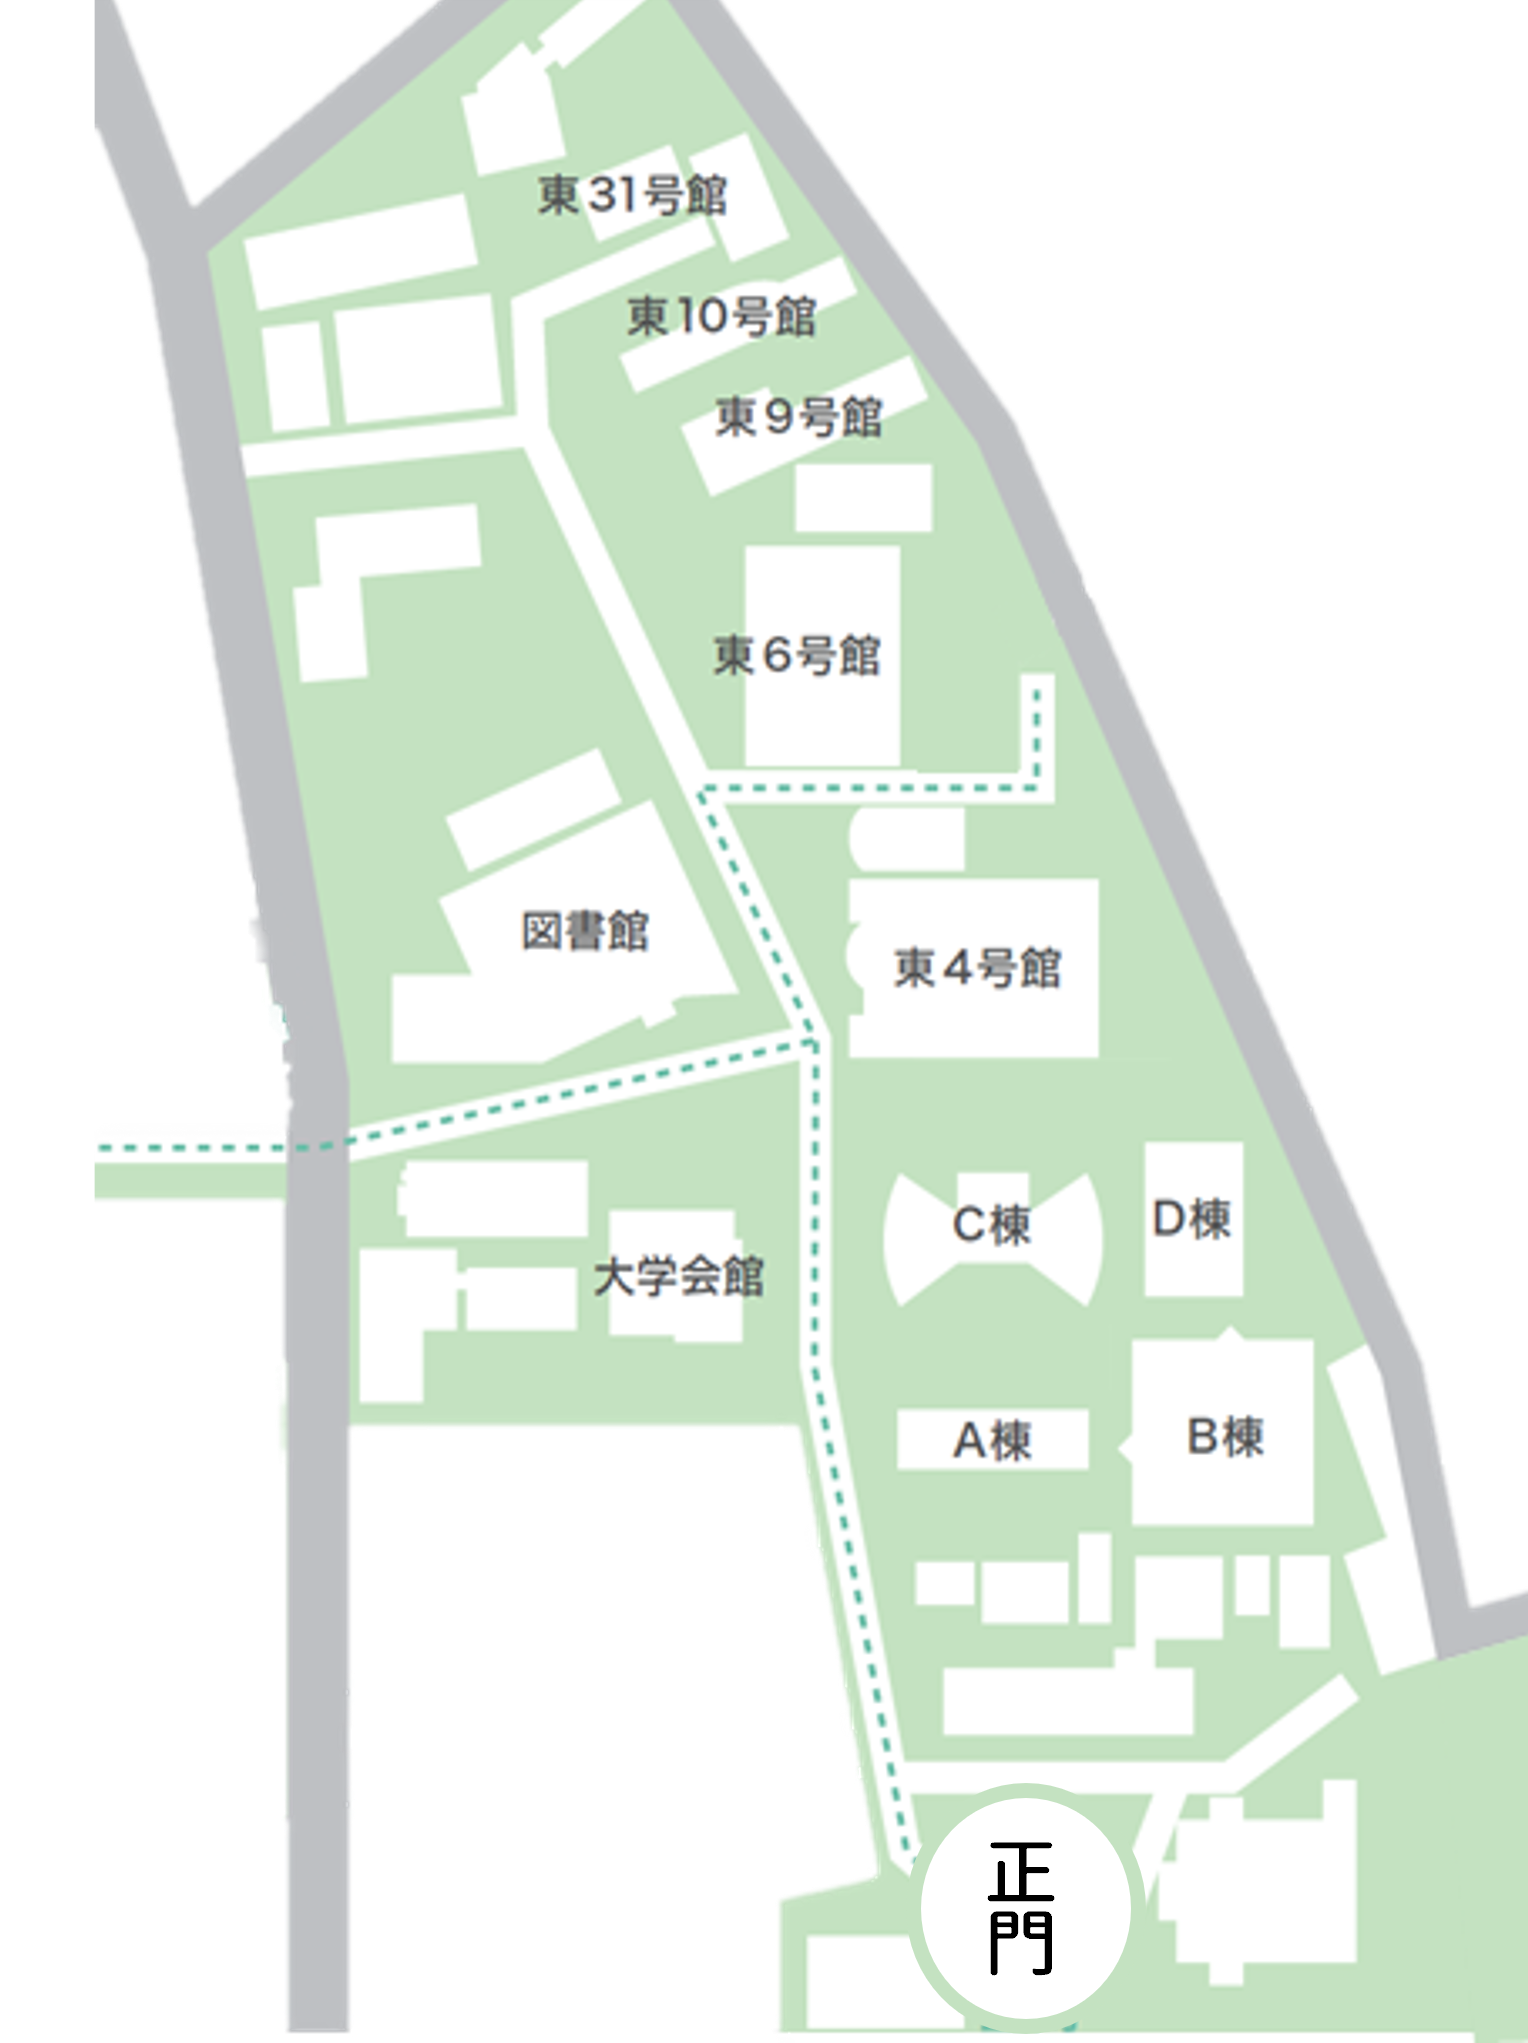
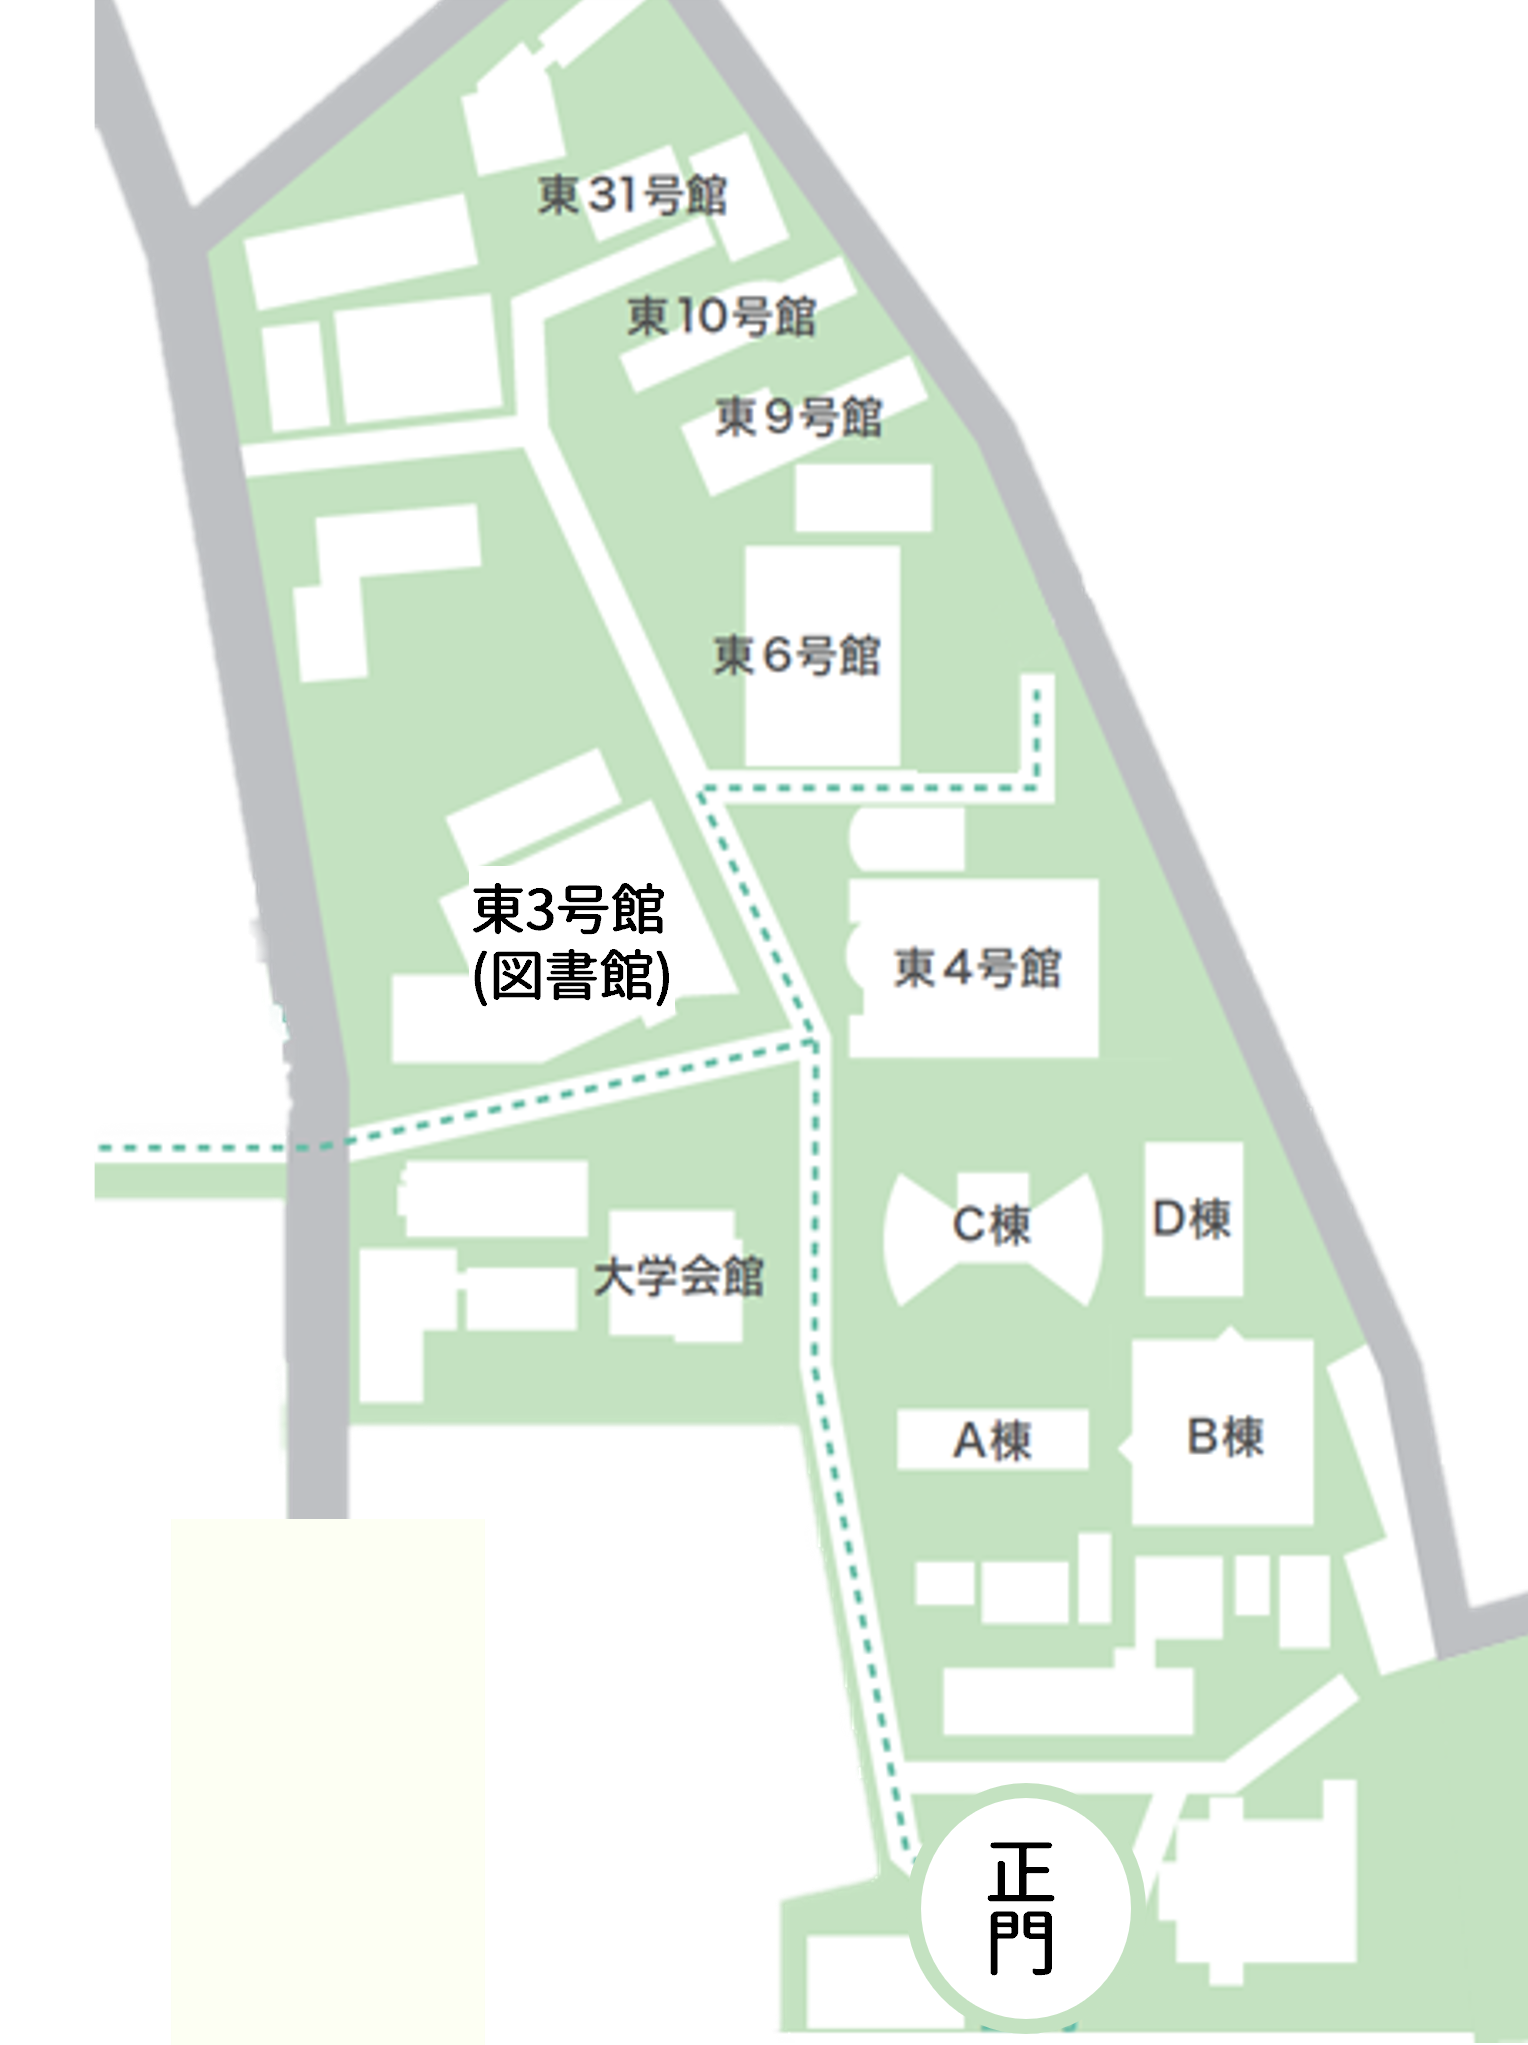
refine

diff --git a/index.html b/index.html
@@ -16,6 +16,8 @@
     --green-dark: #00642D;  /* ラベルのデフォルト枠色 */
     --bg: #FDFFF3;          /* ページ背景色 */
     --marker-bg: #FAFFE7;   /* 部屋番号（丸）の背景色 */
+    --building-title-size: 30px;        /* 建物名（東6号館など）PC 表示のフォントサイズ */
+    --building-title-size-mobile: 15px; /* 建物名のスマホ表示のフォントサイズ */
   }
 
   * { box-sizing: border-box; }
@@ -106,7 +108,7 @@
     width: 100%;
     max-width: 900px;
     margin: 0 auto;
-    padding-bottom: 24px;
+    padding-bottom: 48px;    /* 下側ラベル（西7号館など）用の余白 */
   }
 
   /* マップ画像を包む枠（重ね順: 1 = 最背面） */
@@ -122,8 +124,8 @@
 
   /* 西: 左右両方にラベルを置くため、マップを中央に寄せる */
   .west-map-inner {
-    margin-left: 30%;        /* ← 左の余白幅（%） */
-    margin-right: 26%;       /* ← 右の余白幅（%） */
+    margin-left: 28%;        /* ← 左の余白幅（%） */
+    margin-right: 22%;       /* ← 右の余白幅（%） */
   }
 
   .campus-map-inner .map-image {
@@ -161,10 +163,10 @@
     pointer-events: auto;    /* ラベルだけクリック可能にする */
   }
 
-  /* 各建物グループの先頭ラベルの上に表示する建物名 */
+  /* 各建物グループの先頭ラベルの上に表示する建物名（東6号館・西7号館など） */
   .building-title {
     position: absolute;
-    font-size: 18px;
+    font-size: var(--building-title-size);
     font-weight: bold;
     color: #333;
     white-space: nowrap;
@@ -371,7 +373,7 @@
     .building-title {
       position: static;
       transform: none;
-      font-size: 15px;
+      font-size: var(--building-title-size-mobile);
       margin: 0 0 6px;
       padding-bottom: 0;
     }
@@ -484,11 +486,15 @@
      東キャンパス: 建物アンカー
      mapX, mapY = マップ画像の左上を (0,0)、右下を (100,100) とした %
      折れ線の先端（●）がここに付きます。建物の中心付近に合わせて調整してください。
+     name の文字列がラベル上に表示されます。
+     フォントサイズ … CSS の --building-title-size / --building-title-size-mobile
+     位置 … 各建物の titleOffsetX / titleOffsetY（%）で微調整（省略時 0）
+            全体の縦位置 … BUILDING_TITLE_GAP（最上段ラベルからの距離 %）
      ---------------------------------------------------------- */
   const eastBuildings = {
-    bld6: { name: "東6号館", mapX: 54, mapY: 36 },
+    bld6: { name: "東6号館", mapX: 54, mapY: 36 }, // titleOffsetX: 0, titleOffsetY: 0
     bld9: { name: "東9号館", mapX: 54, mapY: 22 },
-    bld3: { name: "東3号館", mapX: 35, mapY: 50 }, // ※地図上の表示名は「図書館」
+    bld3: { name: "東3号館", mapX: 35, mapY: 50 },
   };
 
   /* ----------------------------------------------------------
@@ -525,37 +531,37 @@
 
   /* ----------------------------------------------------------
      西キャンパス: 建物アンカー（意味・調整方法は eastBuildings と同じ）
+     name … 各建物グループ最上段ラベルの上に表示される建物名
+     titleOffsetX / titleOffsetY … 建物名位置の微調整（省略時 0）
      ---------------------------------------------------------- */
   const westBuildings = {
-    bld7: { name: "西7号館", mapX: 40, mapY: 28 },
-    bld2: { name: "西2号館", mapX: 72, mapY: 42 },
-    bld1: { name: "西1号館", mapX: 72, mapY: 58 },
-    bld4: { name: "西4号館", mapX: 40, mapY: 42 },
-    bld3: { name: "西3号館", mapX: 40, mapY: 58 },
-    bld8: { name: "西8号館", mapX: 72, mapY: 72 },
-    bld9: { name: "西9号館", mapX: 40, mapY: 74 },
+    bld7: { name: "西7号館", mapX: 42, mapY: 30 }, // 左上段（西6の左隣）
+    bld2: { name: "西2号館", mapX: 60, mapY: 48 }, // 中段右（西4の右隣）
+    bld1: { name: "西1号館", mapX: 58, mapY: 70 }, // 下段右（西3の右隣）
   };
 
   /* ----------------------------------------------------------
      西キャンパス: 研究室データ（形式は eastLabData と同じ）
+     西1号館 … 一色研 / 西2号館 … 張・庄司・中村・坂野 / 西7号館 … その他
      labelX が小さい → 左側の一覧、大きい（例: 74）→ 右側の一覧
+     ※ 西マップは横長のため、PC 表示の labelY 刻みは 10 %（東6号館は 8 %）
      ---------------------------------------------------------- */
   const westLabData = [
-    // --- 西7号館（左側に一覧・3件 → バス型折れ線） ---
-    { building: "bld7", name: "白川 研", room: "西7号館 613", desc: "独創的なアイディアで次世代レーザーの基礎研究・開発", color: "#156082", roomLabel: "613", labelX: 2, labelY: 10 },
-    { building: "bld7", name: "Nayak 研", room: "西7号館 413", desc: "ナノファイバー上での光と物質の量子的な相互作用", color: "#E07B39", roomLabel: "413", labelX: 2, labelY: 18 },
-    { building: "bld7", name: "中川 研", room: "西7号館 513", desc: "レーザー光を用いた極低温原子の操作", color: "#00642D", roomLabel: "513", labelX: 2, labelY: 26 },
-    // --- 西2号館（右側に一覧・4件 → バス型折れ線） ---
-    { building: "bld2", name: "張 研", room: "西2号館 421", desc: "不思議な光量子状態の生成および応用", color: "#E07B39", roomLabel: "421", labelX: 74, labelY: 34 },
-    { building: "bld2", name: "庄司 研", room: "西2号館 309", desc: "レーザーでナノを作って、見て、触って、動かす", color: "#7B3F9E", roomLabel: "309", labelX: 74, labelY: 42 },
-    { building: "bld2", name: "中村 研", room: "西2号館 325", desc: "計算機シミュレーションを用いた原子レベル物質設計", color: "#156082", roomLabel: "325", labelX: 74, labelY: 50 },
-    { building: "bld2", name: "坂野 研", room: "西2号館 409", desc: "ナノトライボロジー、物性理論、計算物質科学", color: "#336F6B", roomLabel: "409", labelX: 74, labelY: 58 },
-    // --- 各建物1件ずつ（L字の折れ線） ---
-    { building: "bld1", name: "一色 研", room: "西1号館 213", desc: "光集積回路、光コンピューティング、光増幅、光電融合", color: "#156082", roomLabel: "213", labelX: 74, labelY: 22 },
-    { building: "bld4", name: "丹治 研", room: "西4号館 413", desc: "光と原子の量子状態制御を基盤とした量子技術の創出", color: "#336F6B", roomLabel: "413", labelX: 2, labelY: 64 },
-    { building: "bld3", name: "戸倉川 研", room: "西3号館 114", desc: "光の特性を生かした新奇レーザー装置の開発とその応用", color: "#E07B39", roomLabel: "114", labelX: 2, labelY: 72 },
-    { building: "bld8", name: "岩國 研", room: "西8号館 513", desc: "レーザーで見る分子の世界 精密分子分光実験", color: "#00642D", roomLabel: "513", labelX: 74, labelY: 68 },
-    { building: "bld9", name: "武者 研", room: "西9号館 613", desc: "極限まできれいな光をもとめて", color: "#00642D", roomLabel: "613", labelX: 74, labelY: 76 },
+    // --- 西7号館（左側・部屋番号降順・labelY は 24 から 10 % 刻み） ---
+    { building: "bld7", name: "白川 研", room: "西7号館 613", desc: "独創的なアイディアで次世代レーザーの基礎研究・開発", color: "#156082", roomLabel: "613", labelX: 2, labelY: 24 },
+    { building: "bld7", name: "武者 研", room: "西7号館 613", desc: "極限まできれいな光をもとめて", color: "#00642D", roomLabel: "613", labelX: 2, labelY: 34 },
+    { building: "bld7", name: "中川 研", room: "西7号館 513", desc: "レーザー光を用いた極低温原子の操作", color: "#00642D", roomLabel: "513", labelX: 2, labelY: 44 },
+    { building: "bld7", name: "岩國 研", room: "西7号館 513", desc: "レーザーで見る分子の世界 精密分子分光実験", color: "#00642D", roomLabel: "513", labelX: 2, labelY: 54 },
+    { building: "bld7", name: "Nayak 研", room: "西7号館 413", desc: "ナノファイバー上での光と物質の量子的な相互作用", color: "#E07B39", roomLabel: "413", labelX: 2, labelY: 64 },
+    { building: "bld7", name: "丹治 研", room: "西7号館 413", desc: "光と原子の量子状態制御を基盤とした量子技術の創出", color: "#336F6B", roomLabel: "413", labelX: 2, labelY: 74 },
+    { building: "bld7", name: "戸倉川 研", room: "西7号館 114", desc: "光の特性を生かした新奇レーザー装置の開発とその応用", color: "#E07B39", roomLabel: "114", labelX: 2, labelY: 84 },
+    // --- 西2号館（右側・4件 → バス型折れ線） ---
+    { building: "bld2", name: "張 研", room: "西2号館 421", desc: "不思議な光量子状態の生成および応用", color: "#E07B39", roomLabel: "421", labelX: 74, labelY: 32 },
+    { building: "bld2", name: "坂野 研", room: "西2号館 409", desc: "ナノトライボロジー、物性理論、計算物質科学", color: "#336F6B", roomLabel: "409", labelX: 74, labelY: 42 },
+    { building: "bld2", name: "中村 研", room: "西2号館 325", desc: "計算機シミュレーションを用いた原子レベル物質設計", color: "#156082", roomLabel: "325", labelX: 74, labelY: 52 },
+    { building: "bld2", name: "庄司 研", room: "西2号館 309", desc: "レーザーでナノを作って、見て、触って、動かす", color: "#7B3F9E", roomLabel: "309", labelX: 74, labelY: 62 },
+    // --- 西1号館（下段右） ---
+    { building: "bld1", name: "一色 研", room: "西1号館 213", desc: "光集積回路、光コンピューティング、光増幅、光電融合", color: "#156082", roomLabel: "213", labelX: 74, labelY: 76 },
   ];
 
   /* モーダルに表示するキャンパス名 */
@@ -566,14 +572,16 @@
      ============================================================ */
 
   /** 各建物グループの最上段ラベルの上に建物名を表示 */
-  const BUILDING_TITLE_GAP = 6; // 最上段ラベル中心から建物名までの距離（%）
+  const BUILDING_TITLE_GAP = 2; // 最上段ラベル中心から建物名までの距離（%）。全体調整用
 
-  function createBuildingTitle(buildingName, labelX, topLabelY) {
+  function createBuildingTitle(building, labelX, topLabelY) {
     const el = document.createElement('div');
     el.className = 'building-title';
-    el.textContent = buildingName;
-    el.style.left = labelX + '%';
-    el.style.top = (topLabelY - BUILDING_TITLE_GAP) + '%';
+    el.textContent = building.name;
+    const offsetX = building.titleOffsetX || 0;
+    const offsetY = building.titleOffsetY || 0;
+    el.style.left = (labelX + offsetX) + '%';
+    el.style.top = (topLabelY - BUILDING_TITLE_GAP + offsetY) + '%';
     return el;
   }
 
@@ -771,7 +779,7 @@
       if (buildings) {
         const topLab = labs.reduce((a, b) => (a.labelY < b.labelY ? a : b));
         groupEl.appendChild(
-          createBuildingTitle(buildings[buildingKey].name, topLab.labelX, topLab.labelY)
+          createBuildingTitle(buildings[buildingKey], topLab.labelX, topLab.labelY)
         );
       }
 
@@ -790,7 +798,7 @@
   }
 
   function renderWestMap() {
-    renderCampusMap('labels-west', westLabData, 'west', drawWestLeaderLines);
+    renderCampusMap('labels-west', westLabData, 'west', drawWestLeaderLines, westBuildings);
   }
 
   /** ラベルクリック時: モーダルに研究室情報を表示 */

diff --git a/README.md b/README.md
@@ -130,9 +130,23 @@ python -m http.server 8080
 ```javascript
 // 例: マップ画像内の位置（左上 0,0 ～ 右下 100,100 の百分率）
 bld6: { name: "東6号館", mapX: 54, mapY: 36 },
+// 建物名の位置を微調整する場合（PC 表示。単位は %）
+bld6: { name: "東6号館", mapX: 54, mapY: 36, titleOffsetX: 2, titleOffsetY: -1 },
 ```
 
 **東6号館**の研究室は部屋番号の**降順**で並べ、`labelY` は **8 % 刻み**（22, 30, 38, …）で等間隔にしてください。
+
+**西キャンパス**の建物と研究室の対応は次のとおりです。
+
+| 建物 | 研究室 |
+|------|--------|
+| 西1号館 | 一色 研 |
+| 西2号館 | 張・庄司・中村・坂野 研 |
+| 西7号館 | 上記以外（白川・Nayak・中川・丹治・戸倉川・岩國・武者 研） |
+
+西4・西3・西8・西9号館には研究室はありません。
+
+**西7号館**など左側の一覧は部屋番号**降順**、`labelY` は **10 % 刻み**（24, 34, 44, …）で等間隔にしてください（西マップは横長のため、東6号館の 8 % より広め）。
 
 ### 配色・フォント・レイアウト
 
@@ -144,7 +158,7 @@ bld6: { name: "東6号館", mapX: 54, mapY: 36 },
 | `.east-map-inner` の `margin-left` | 東キャンパス：左側ラベル用の余白（PC 表示） |
 | `.west-map-inner` の `margin-left/right` | 西キャンパス：左右ラベル用の余白（PC 表示） |
 | `.marker-room` / `.marker-name` | 部屋番号・研究室名のサイズ |
-| `.building-title` | 建物名（各グループ最上段の上）のサイズ・色 |
+| `.building-title` / `:root` の `--building-title-size` | 建物名（東6号館など）のフォントサイズ（PC / スマホ） |
 | `@media (max-width: 640px)` | **スマートフォン向け**レイアウト（マップ下に研究室一覧） |
 
 #### スマートフォン表示について